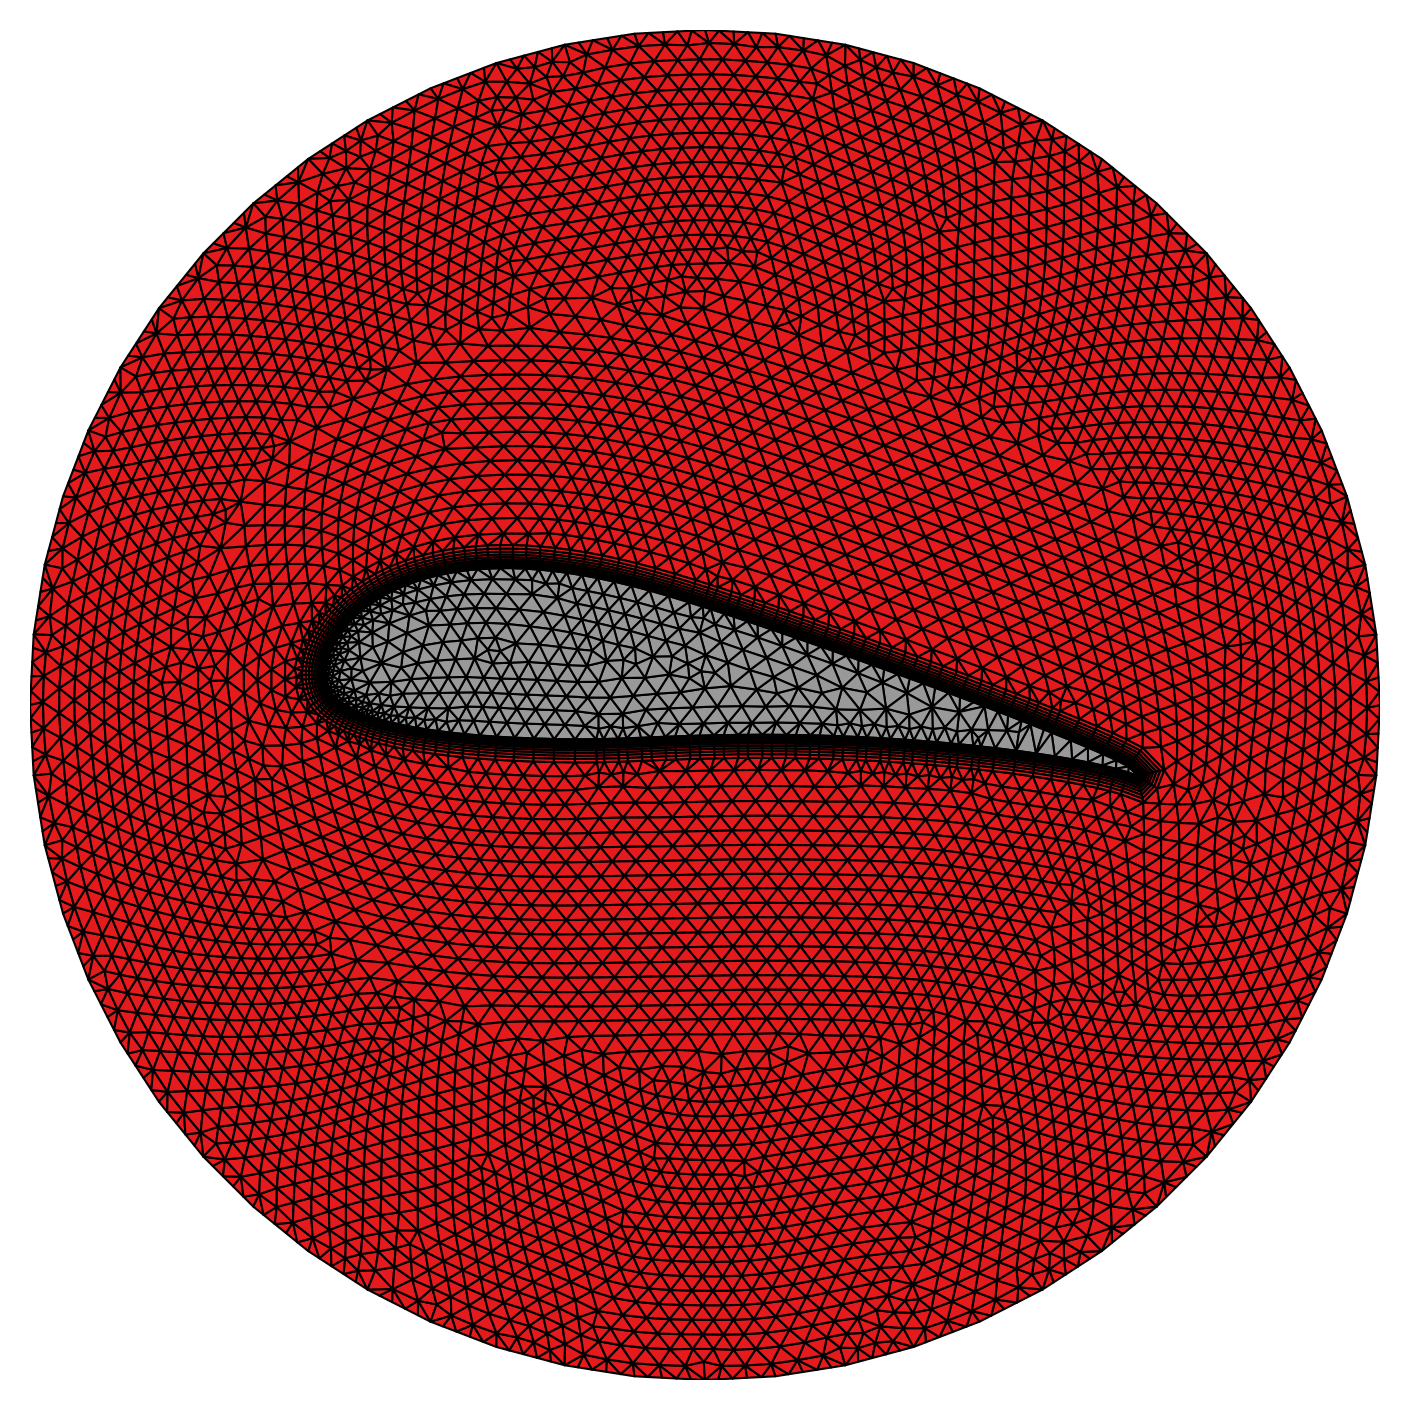
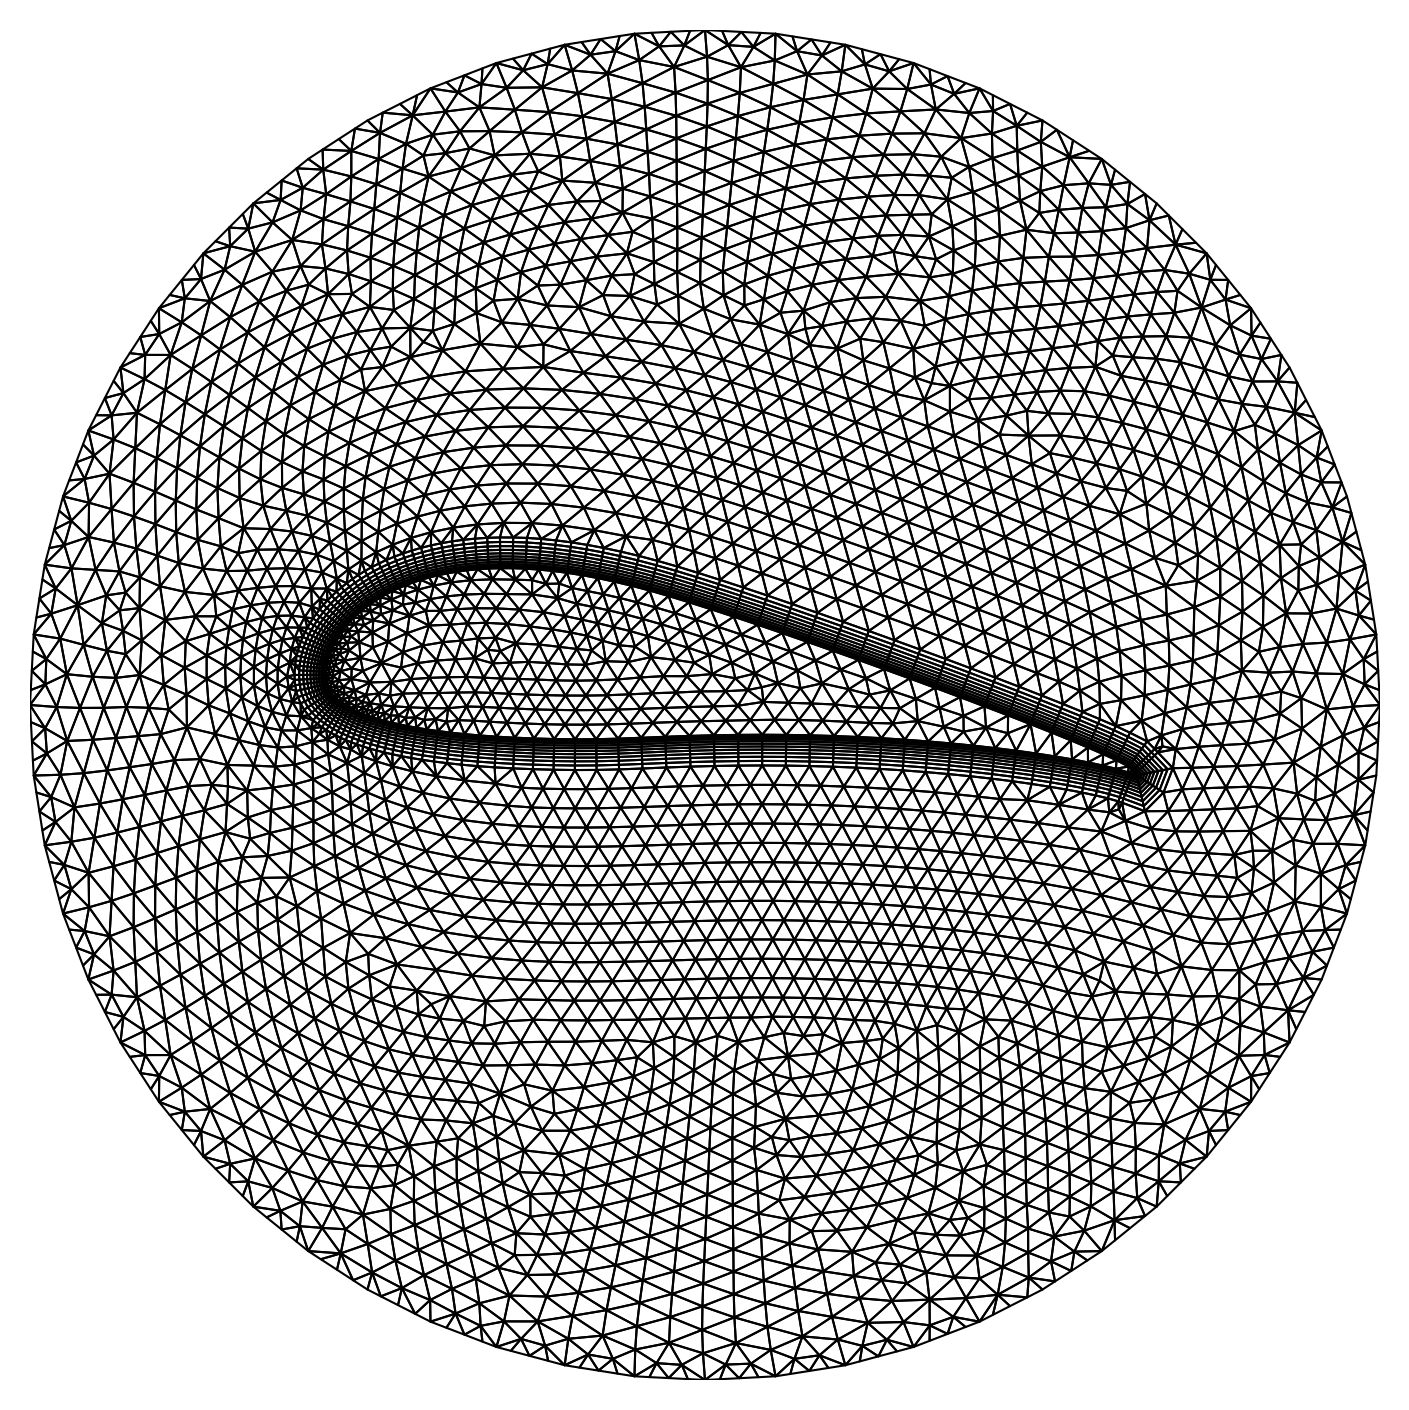
Update example 06 to get rid of invalid front edges

diff --git a/src/examples/06_airfoil_from_csv.cpp b/src/examples/06_airfoil_from_csv.cpp
@@ -32,11 +32,17 @@ void airfoil_from_csv()
   /*------------------------------------------------------------------
   | Define the size function
   ------------------------------------------------------------------*/
-  UserSizeFunction f_outer = [](const Vec2d& p) { return 0.003; };
+  UserSizeFunction f_outer = [](const Vec2d& p) { return 0.004; };
 
   Domain outer_domain { f_outer };
   outer_domain.add_exterior_boundary().set_shape_circle(1, {0.77, 0.09}, 0.14, 60);
   outer_domain.add_interior_boundary().set_shape_from_csv(csv_file);
+
+  /*------------------------------------------------------------------
+  | We use some additional fixed vertices to locally refine the mesh
+  ------------------------------------------------------------------*/
+  outer_domain.add_fixed_vertex(0.69095, 0.09625, 0.0020, 0.02);
+  outer_domain.add_fixed_vertex(0.85985, 0.07582, 0.0008, 0.005);
 
   /*------------------------------------------------------------------
   | Initialize the outer mesh
@@ -53,7 +59,7 @@ void airfoil_from_csv()
   ------------------------------------------------------------------*/
   generator.quad_layer_generation(outer_mesh)
     .n_layers(10)
-    .first_height(0.0003)
+    .first_height(0.0004)
     .growth_rate(1.10)
     .starting_position({0.69132,0.09754})
     .ending_position({0.69132,0.09754})
